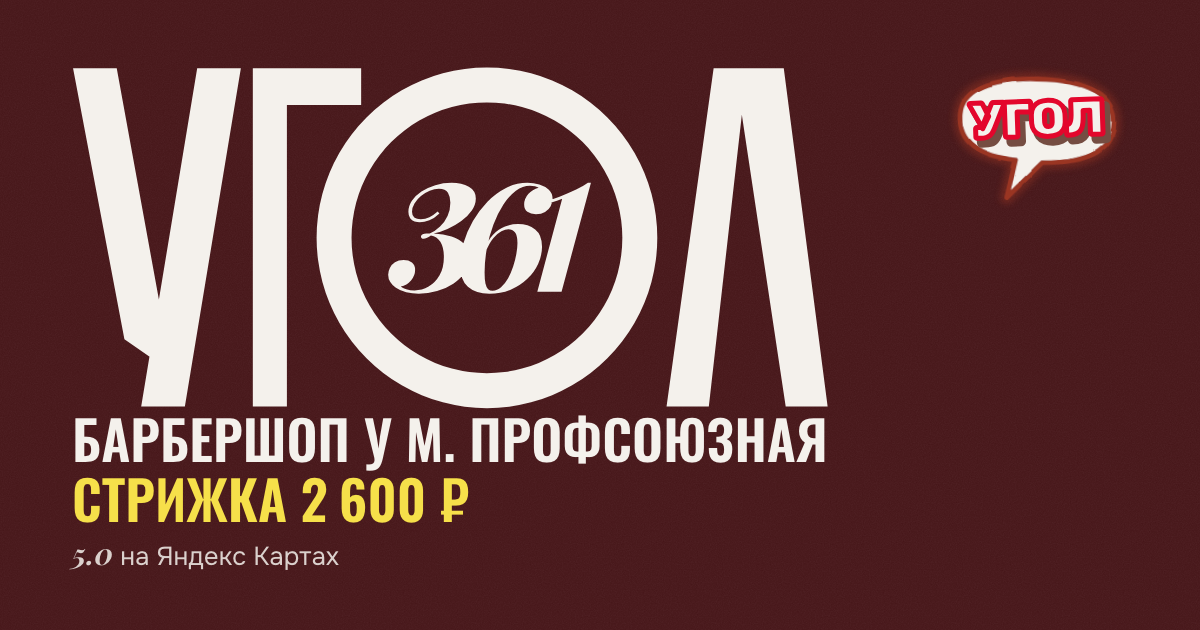
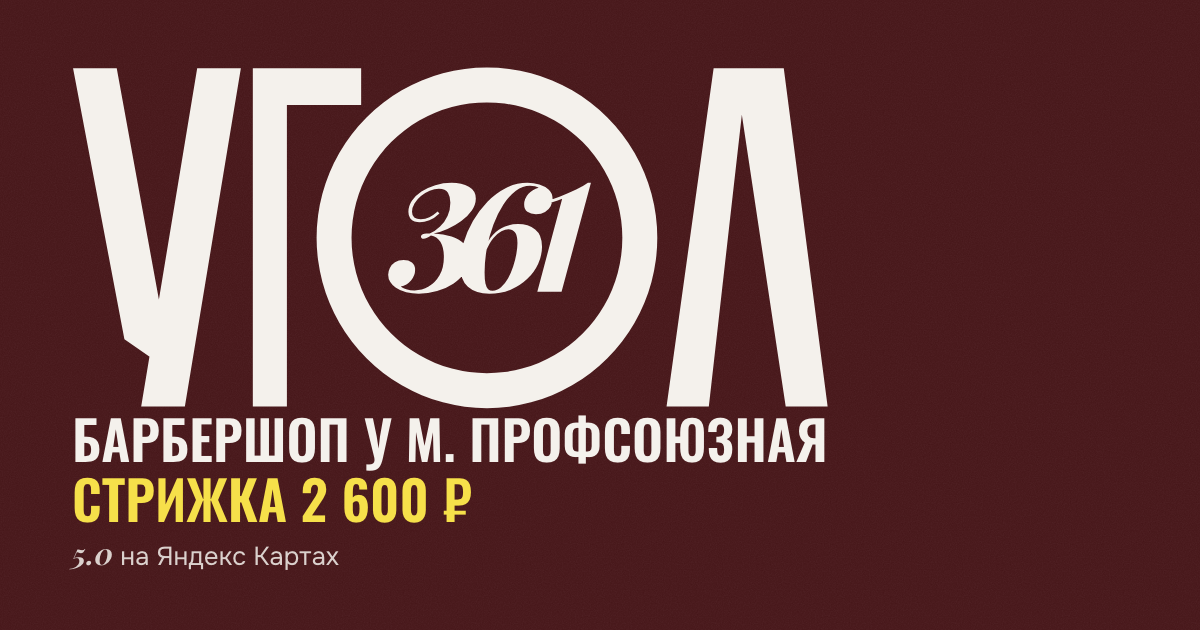
Обложка для ссылок без пузыря, новый адрес og-картинки
Claude-Session: https://claude.ai/code/session_01NcNjpy4ukxiYLVyVxipSd3

Changed region(s): [[0.7708, 0.1206, 0.9558, 0.3317], [0.2775, 0.754, 0.4008, 0.8444]]

diff --git a/src/lib/jsonld.ts b/src/lib/jsonld.ts
@@ -12,7 +12,7 @@ export function barbershopJsonLd(origin: URL) {
     alternateName: site.nameLatin,
     description: `${site.kind} у метро ${site.address.metro}`,
     url: new URL(url(), origin).href,
-    image: new URL(url('og.png'), origin).href,
+    image: new URL(url('og.png?v=2'), origin).href,
     telephone: site.phone.href.replace('tel:', ''),
     priceRange: `${Math.min(...all)}–${Math.max(...all)} ₽`,
     currenciesAccepted: 'RUB',
